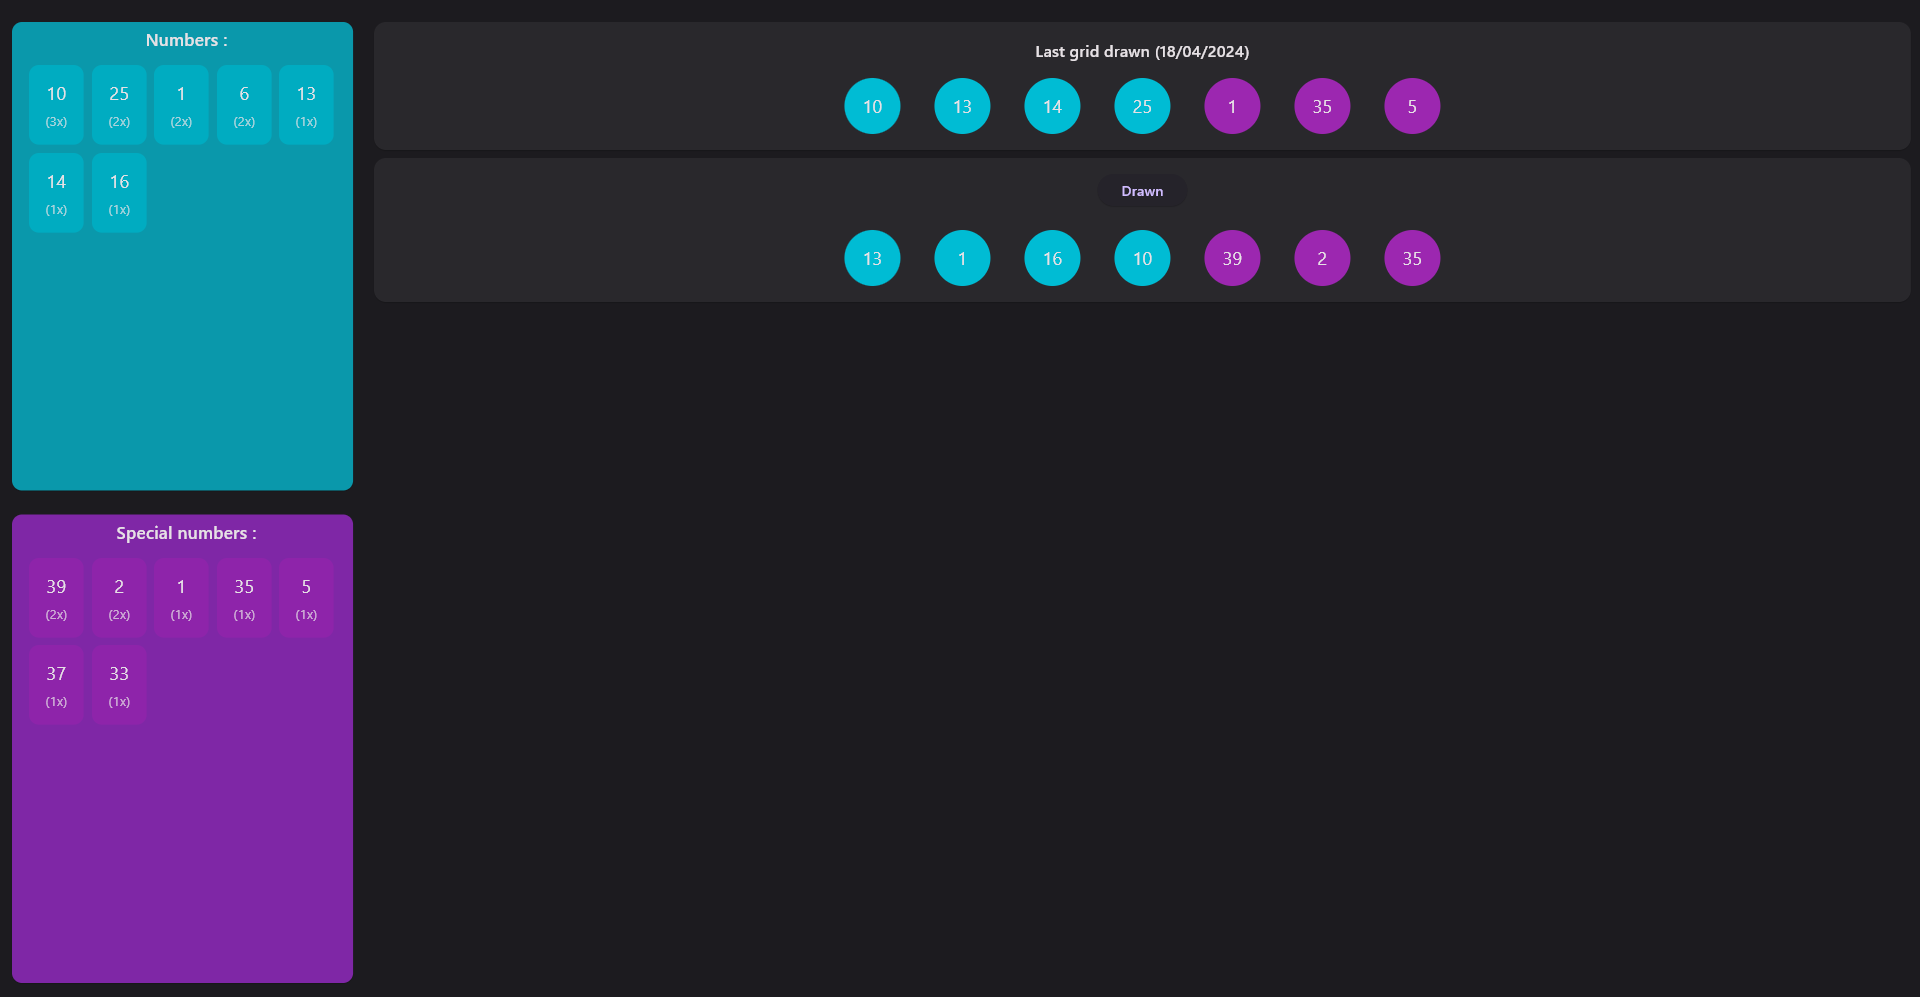
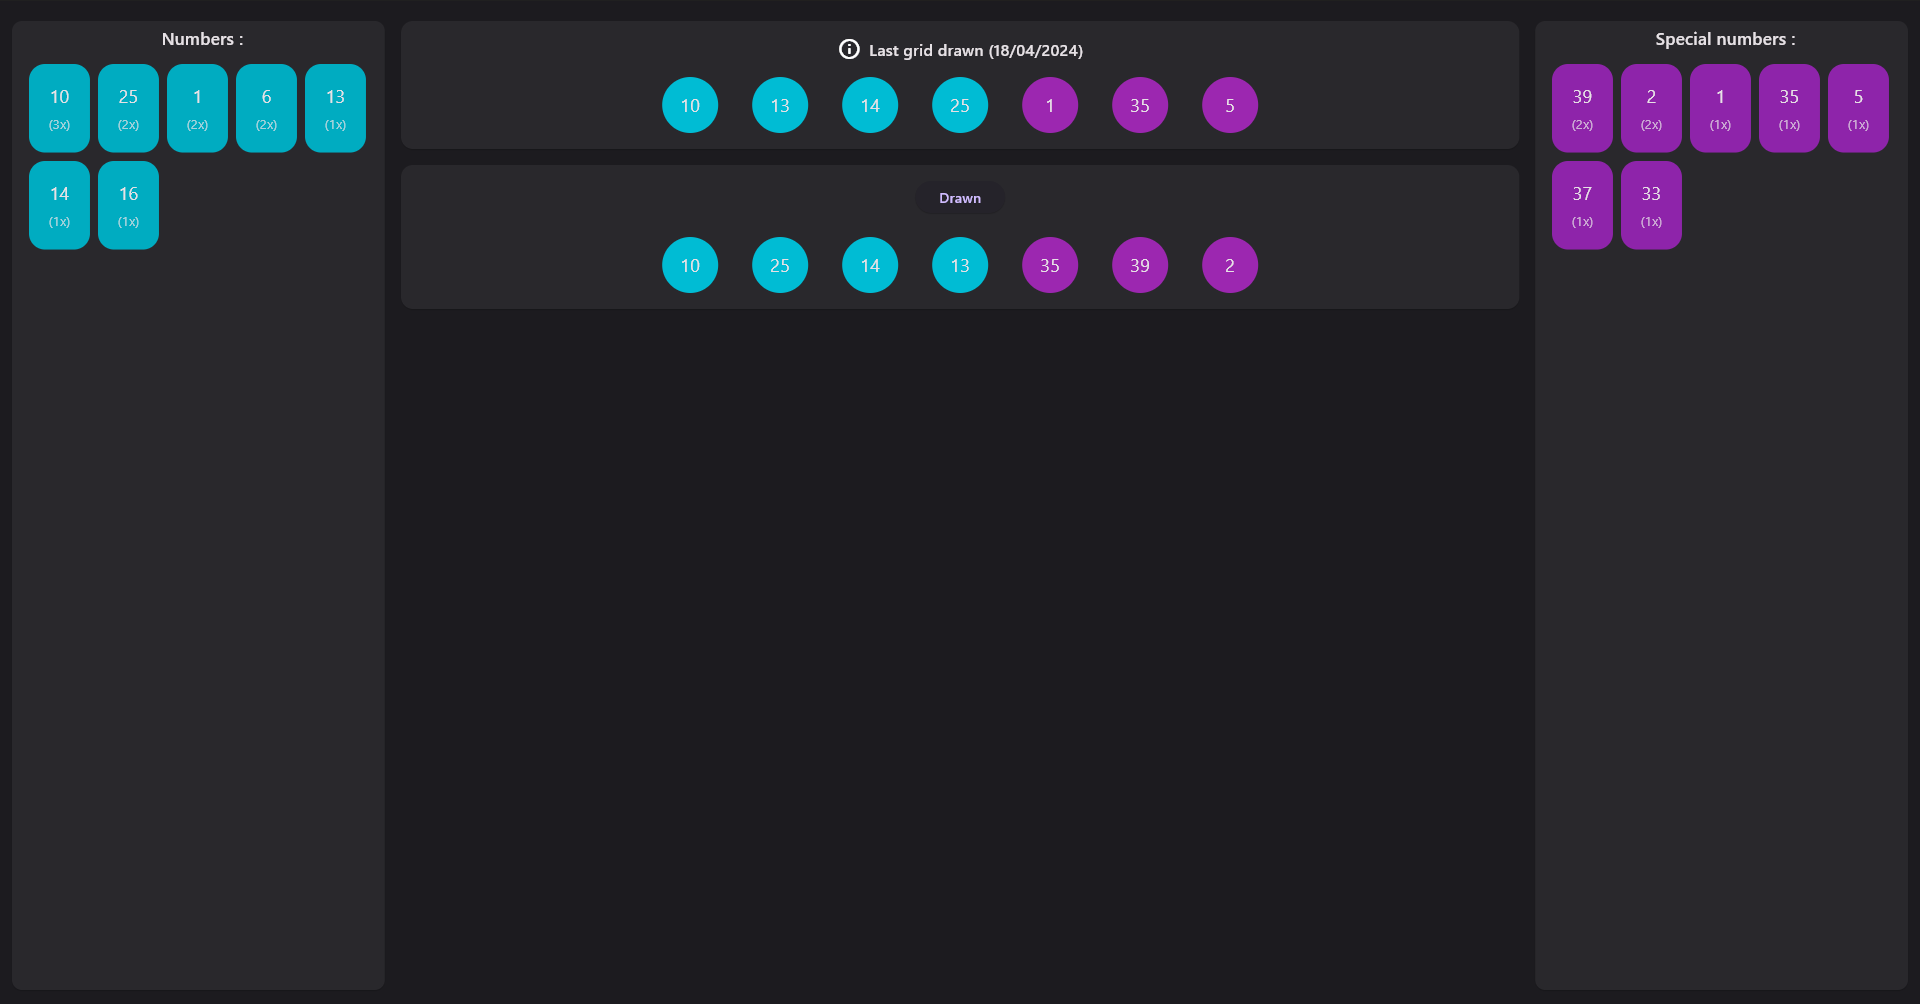
design: update main design

diff --git a/lib/src/view/screens/lottery_screen.dart b/lib/src/view/screens/lottery_screen.dart
@@ -39,37 +39,23 @@ class LotteryScreen extends StatelessWidget {
     return Scaffold(
       backgroundColor: backgroundColor,
       body: Padding(
-        padding: const EdgeInsets.symmetric(vertical: 20),
+        padding: const EdgeInsets.symmetric(vertical: 16),
         child: Row(
           crossAxisAlignment: CrossAxisAlignment.start,
           children: [
-            Padding(
-              padding: const EdgeInsets.symmetric(horizontal: 8),
-              child: Column(
-                children: outputs
-                    .map((e) => Expanded(child: e))
-                    .cast<Widget>()
-                    .toList()
-                    ._addSeparator(const SizedBox(height: 16)),
-              ),
-            ),
+            const SizedBox(width: 8.0),
+            Expanded(child: outputs.first),
             Expanded(
+              flex: 3,
               child: Padding(
-                padding: const EdgeInsets.symmetric(horizontal: 5.0),
+                padding: const EdgeInsets.symmetric(horizontal: 8.0),
                 child: SingleChildScrollView(
                   child: Column(
                     children: [
-                      Row(
-                        children: [
-                          const Expanded(child: SizedBox.shrink()),
-                          Expanded(
-                            child: LotteryLastGridDrawn(
-                              numberDecoration: numberDecoration,
-                              specialNumberDecoration: specialNumberDecoration,
-                              cardColor: cardColor,
-                            ),
-                          ),
-                        ],
+                      LotteryLastGridDrawn(
+                        numberDecoration: numberDecoration,
+                        specialNumberDecoration: specialNumberDecoration,
+                        cardColor: cardColor,
                       ),
                       const SizedBox(height: 8),
                       LotteryRandomPick(
@@ -84,6 +70,8 @@ class LotteryScreen extends StatelessWidget {
                 ),
               ),
             ),
+            Expanded(child: outputs.last),
+            const SizedBox(width: 8.0),
           ],
         ),
       ),

diff --git a/lib/src/view/widgets/lottery_outputs.dart b/lib/src/view/widgets/lottery_outputs.dart
@@ -65,7 +65,7 @@ class LotteryOutputs extends StatelessWidget {
       constraints: decoration.constraints,
       width: decoration.width ?? MediaQuery.of(context).size.width / 5.5,
       child: Card(
-        color: decoration.primary.shade700,
+        color: Theme.of(context).cardTheme.color ?? Theme.of(context).cardColor,
         shape: RoundedRectangleBorder(
           borderRadius: decoration.borderRadius ?? BorderRadius.circular(10),
         ),
@@ -139,7 +139,7 @@ class _OutputsGridView extends StatelessWidget {
         childAspectRatio: decoration.childAspectRatio,
       ),
       itemBuilder: (context, index) => Card(
-        shape: RoundedRectangleBorder(borderRadius: BorderRadius.circular(10)),
+        shape: RoundedRectangleBorder(borderRadius: BorderRadius.circular(16)),
         color: decoration.primary.shade600,
         elevation: 0,
         child: Padding(

diff --git a/example/lib/main.dart b/example/lib/main.dart
@@ -23,7 +23,7 @@ class MyApp extends StatelessWidget {
       title: 'Flutter Demo',
       theme: ThemeData.dark(
         useMaterial3: true,
-      ),
+      ).copyWith(cardColor: Colors.grey.shade900),
       home: LotteryScreen(
         cardColor: Colors.grey.shade900,
         outputs: [
